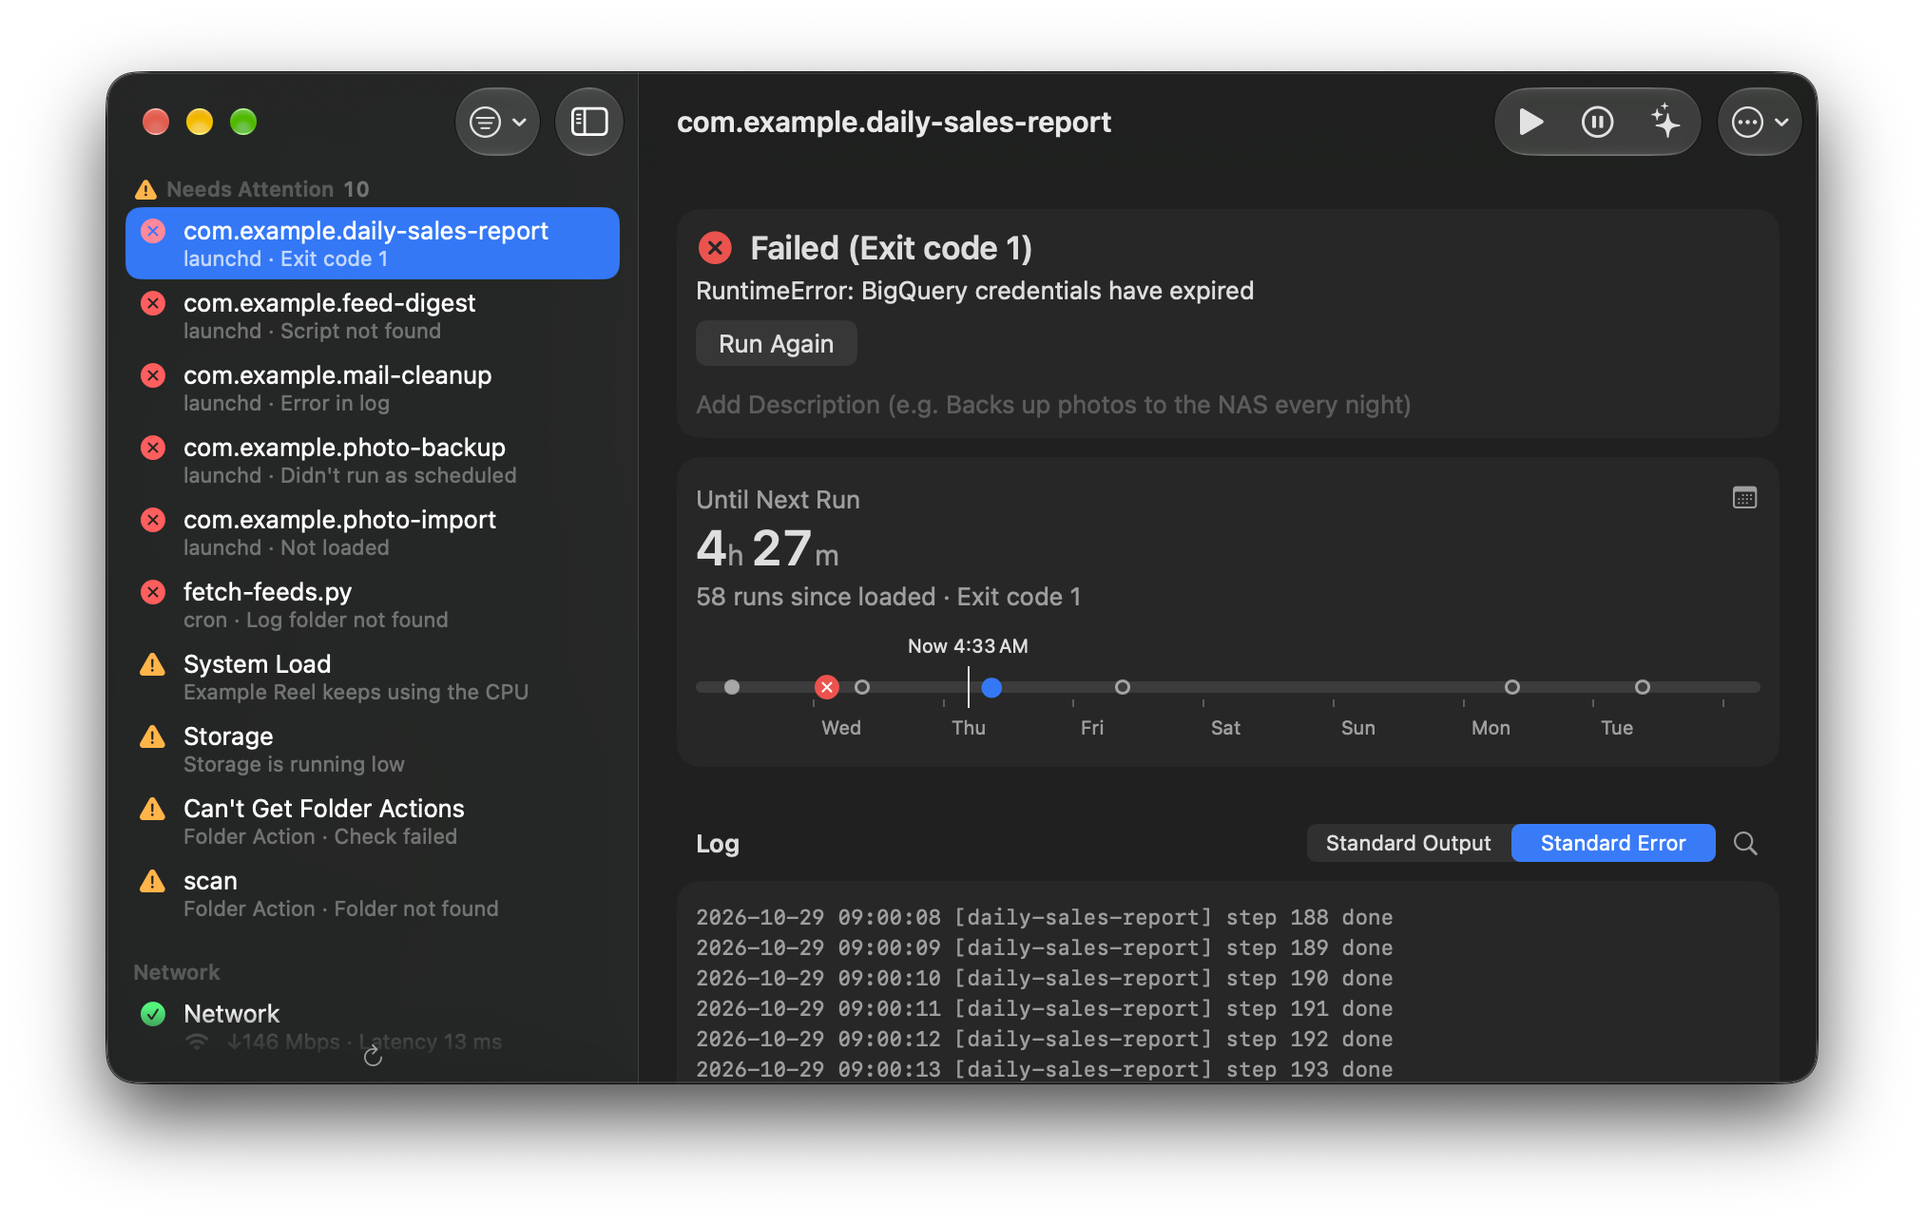
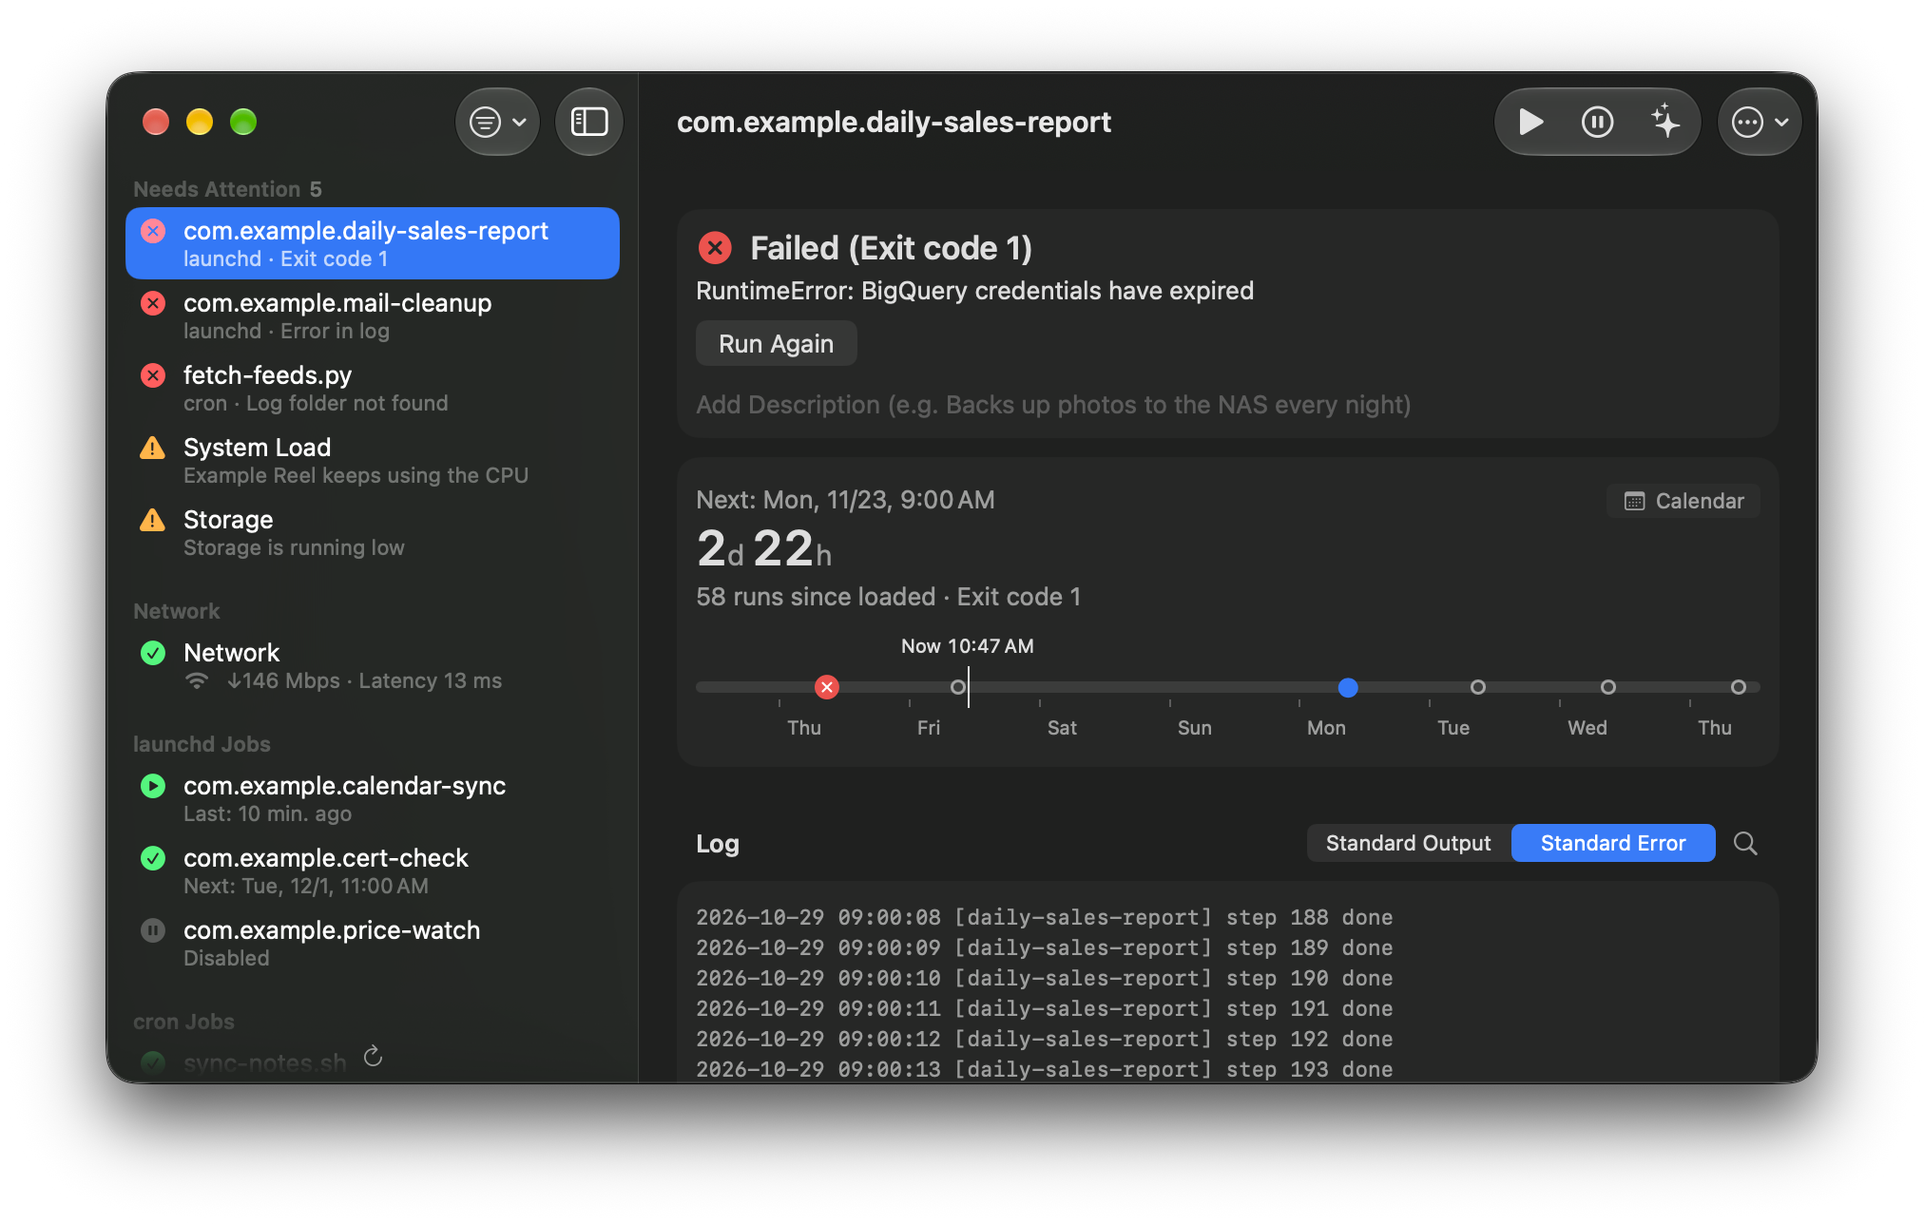
Label job triggers, show the next run time, and open schedule editing from the toolbar and menu bar

diff --git a/Breaker/Features/Dashboard/Views/ItemDetailView+LaunchdActivity.swift b/Breaker/Features/Dashboard/Views/ItemDetailView+LaunchdActivity.swift
@@ -2,10 +2,10 @@ import SwiftUI
 
 extension ItemDetailView {
     /**
-     launchd ジョブの動きを図で見せる。主役は次回までの残り時間の大きな数字1つで、実行回数と前回の終了はその下の小さな1行にまとめる
-     （失敗の見出しより目立たせないため。利用者の判断）。その下のタイムラインに、予定・前回・走らなかった予定・今を並べる。
+     launchd ジョブの動きを図で見せる。主役は次回までの残り時間の大きな数字1つで、見出しを次回の日時にする（残りから日時を暗算させず、行も増やさない。利用者の判断）。
+     実行回数と前回の終了はさらに下の小さな1行にまとめる（失敗の見出しより目立たせないため。利用者の判断）。その下のタイムラインに、予定・前回・走らなかった予定・今を並べる。
      タイムラインに印で出した前回・次回は、概要の文から外す（`MonitoredItem.headerRunSummary(now:)`）。
-     右上にジョブの種類（時刻指定・間隔・常駐など）を記号だけで添える（比較した中から利用者が選んだ、いちばん静かな見せ方）
+     右上にジョブの種類（時刻指定・間隔・常駐など）を記号と名前のタグで添える（`TriggerTags`）
      */
     struct LaunchdActivitySection: View {
         let job: MonitoredItem.LaunchdJob
@@ -21,12 +21,13 @@ extension ItemDetailView {
                     // 残り時間と「今」の位置が古びないよう、分が変わるたびに描き直す
                     TimelineView(.everyMinute) { context in
                         VStack(alignment: .leading, spacing: Spacing.standard) {
-                            HStack(alignment: .top, spacing: Spacing.standard) {
+                            // 種類のタグの文字を、左の見出し（次回の日時）と同じ行に揃える
+                            HStack(alignment: .firstTextBaseline, spacing: Spacing.standard) {
                                 VStack(alignment: .leading, spacing: Spacing.hairline) {
                                     // 予定のあるジョブは次回までの残り、動き続けている常駐ジョブは起動からの稼働時間を主役にする
                                     let figure = RunTimeline.nextRun(of: job, status: status, now: context.date).map { nextRun in
                                         DurationFigure(
-                                            title: String(localized: "Until Next Run", comment: "Title of the countdown to the next run of a launchd job in the detail"),
+                                            title: MonitoredItem.nextRunText(nextRun, now: context.date),
                                             from: context.date,
                                             to: nextRun
                                         )
@@ -50,7 +51,7 @@ extension ItemDetailView {
                                 }
                                 .frame(maxWidth: .infinity, alignment: .leading)
 
-                                TriggerSymbols(triggers: job.schedule.triggers)
+                                TriggerTags(triggers: job.schedule.triggers)
                             }
 
                             if let timeline = RunTimeline(job: job, status: status, now: context.date) {
@@ -64,7 +65,7 @@ extension ItemDetailView {
         }
 
         /**
-         `58 回実行（読み込み後） · 終了コード 1`。終了コードは失敗したときだけ添える。0 は概要の「正常」と線の ✓ が言うので繰り返さない（利用者の判断）。
+         `58回実行（読み込み後） · 終了コード 1`。終了コードは失敗したときだけ添える。0 は概要の「正常」と線の ✓ が言うので繰り返さない（利用者の判断）。
          まだ一度も終了していなければ終了の部分を出さない
          */
         nonisolated static func serviceSummary(of service: LaunchdServiceInfo, locale: Locale = .current) -> String {
@@ -101,20 +102,32 @@ extension ItemDetailView {
         }
     }
 
-    /// ジョブの種類の記号。色は付けず形だけで見分け、名前はポインタを載せたときと読み上げで伝える
-    struct TriggerSymbols: View {
+    /**
+     ジョブの種類のタグ。記号だけでは何を指すか分かりにくかったので名前を並べる（利用者の判断）。
+     色は付けない。状態の色（緑・橙・赤）と取り違えないようにする
+     */
+    struct TriggerTags: View {
         let triggers: [Schedule.Trigger]
 
         var body: some View {
-            HStack(spacing: Spacing.tight) {
+            HStack(spacing: Spacing.micro) {
                 ForEach(triggers, id: \.self) { trigger in
-                    Image(systemName: trigger.systemImage)
-                        .help(trigger.title)
-                        .accessibilityLabel(trigger.title)
+                    HStack(spacing: Spacing.micro) {
+                        // 記号の名前（calendar など）まで読み上げられないよう、読み上げは名前だけにする
+                        Image(systemName: trigger.systemImage)
+                            .accessibilityHidden(true)
+
+                        Text(trigger.title)
+                    }
+                    .padding(.horizontal, Spacing.tight)
+                    .padding(.vertical, Spacing.hairline)
+                    // 地は面の色（fill）にする。文字の階層の色（.quaternary）を面に使わない（HIG の Color）
+                    .background(.fill.quaternary, in: .rect(cornerRadius: Layout.triggerTagCornerRadius))
                 }
             }
-            .font(.Body.regular)
+            .font(.Base.regular)
             .foregroundStyle(.secondary)
+            .fixedSize()
             .accessibilityElement(children: .combine)
         }
     }

diff --git a/Breaker/Features/Dashboard/Views/ItemDetailView+Toolbar.swift b/Breaker/Features/Dashboard/Views/ItemDetailView+Toolbar.swift
@@ -2,7 +2,8 @@ import SwiftUI
 
 extension ItemDetailView {
     /**
-     よく使う状態を変える操作はアイコンのボタンで並べ、それ以外（読み込み直すとファイルを開く操作）は1つのメニューにまとめる。
+     よく使う状態を変える操作はアイコンのボタンで並べ、それ以外（読み込み直す・スケジュールの編集・ファイルを開く操作）は1つのメニューにまとめる。
+     メニューの並びはサイドバーの右クリックメニューと同じにする。
      ボタンの組は状態で変えず、できないものは無効にする。ツールバーのボタンは文字を出さないので、何をするかはツールチップで伝える
      */
     struct Toolbar: ToolbarContent {
@@ -10,6 +11,8 @@ extension ItemDetailView {
         let controls: [ItemAction]
         let promptAction: ItemAction?
         let secondaryControls: [ItemAction]
+        /// スケジュールの行の「編集…」と同じ操作。行まで降りなくても開けるようにする
+        let edits: [ItemAction]
         let files: [ItemAction]
         /// ネットワーク項目のときだけ。計測は `ItemActionPerformer` ではなくスケジューラが受け持つので、操作の組とは別に渡す
         let measure: MeasureButton.Model?
@@ -42,15 +45,16 @@ extension ItemDetailView {
                         .id(itemID)
                 }
 
-                if !secondaryControls.isEmpty || !files.isEmpty {
+                let menuGroups = [secondaryControls, edits, files].filter { !$0.isEmpty }
+                if !menuGroups.isEmpty {
                     Menu("More", systemImage: "ellipsis.circle") {
-                        ItemActionMenuItems(actions: secondaryControls, perform: perform)
+                        ForEach(menuGroups, id: \.self) { actions in
+                            if actions != menuGroups.first {
+                                Divider()
+                            }
 
-                        if !secondaryControls.isEmpty && !files.isEmpty {
-                            Divider()
+                            ItemActionMenuItems(actions: actions, perform: perform)
                         }
-
-                        ItemActionMenuItems(actions: files, perform: perform)
                     }
                     .help("More")
                     .disabled(isLocked)

diff --git a/Breaker/Models/ItemAction.swift b/Breaker/Models/ItemAction.swift
@@ -50,6 +50,11 @@ struct ItemAction: Identifiable, Hashable, Sendable {
     static var unavailablePromptAction: ItemAction {
         ItemAction(title: copyPromptTitle, systemImage: copyPromptSystemImage, operation: .unavailable, isEnabled: false)
     }
+
+    /// スケジュールを書き換えられない項目（launchd ジョブ以外・`/Library` のジョブ）を選んでいるときにメニューバーの「項目」で無効で見せる。`MonitoredItem.editActions` に名前と絵を合わせる
+    static var unavailableEditAction: ItemAction {
+        ItemAction(title: editScheduleTitle, systemImage: editScheduleSystemImage, operation: .unavailable, isEnabled: false)
+    }
 }
 
 extension ItemAction {
@@ -64,6 +69,14 @@ extension ItemAction {
 
     static var reloadTitle: String {
         String(localized: "Reload", comment: "Action that loads an unloaded launchd job back into launchd")
+    }
+
+    static var editScheduleTitle: String {
+        String(localized: "Edit Schedule…")
+    }
+
+    static var editScheduleSystemImage: String {
+        "calendar.badge.clock"
     }
 
     static var showInFinderTitle: String {
@@ -226,7 +239,7 @@ extension MonitoredItem {
             case .launchdJob(let job) = detail,
             job.origin.isManageable
         {
-            [ItemAction(title: String(localized: "Edit Schedule…"), systemImage: "calendar.badge.clock", operation: .editSchedule(job))]
+            [ItemAction(title: ItemAction.editScheduleTitle, systemImage: ItemAction.editScheduleSystemImage, operation: .editSchedule(job))]
         } else {
             []
         }

diff --git a/Breaker/Preview Content/PreviewSupport.swift b/Breaker/Preview Content/PreviewSupport.swift
@@ -348,14 +348,18 @@ extension AppModel {
 
     /**
      `-BreakerSampleData YES` で起動したときの一覧（`AppEnvironment.usesSampleData`）。スクリーンショットで詳細のログの欄も埋まるよう、
-     ログ付きの見本を同じ ID の項目と差し替え、代表的な失敗（#Preview "launchd (Failed with Logs)" と同じもの）を選んでおく
+     ログ付きの見本を同じ ID の項目と差し替え、代表的な失敗（#Preview "launchd (Failed with Logs)" と同じもの）を選んでおく。
+     要確認の節が長いとネットワークなど下の節がウインドウに収まらないので、異常は種類ごとに代表だけを残す
      */
     static func sampleData() -> AppModel {
         let failure = MonitoredItem.sampleFailureWithLogs
         let withLogs = [failure, MonitoredItem.sampleLogErrorWithLogs]
-        let items = MonitoredItem.samples.map { item in
-            withLogs.first { $0.id == item.id } ?? item
-        }
+        let shownIssues: Set = [failure.name, MonitoredItem.sampleLogError.name, "fetch-feeds.py", MonitoredItem.sampleSystemLoad.name, MonitoredItem.sampleStorage.name]
+        let items = MonitoredItem.samples
+            .filter { !$0.status.isAbnormal || shownIssues.contains($0.name) }
+            .map { item in
+                withLogs.first { $0.id == item.id } ?? item
+            }
         return preview(selectedID: failure.id, items: items)
     }
 }

diff --git a/BreakerTests/AppModelTests.swift b/BreakerTests/AppModelTests.swift
@@ -414,7 +414,10 @@ struct AppModelTests {
         #expect(reloaded.itemNotes == [item.id: "メモ"])
     }
 
-    /// スクリーンショット用の見本。見本の項目がすべて並び、ログの書かれた失敗の項目を選んだ状態で始まる
+    /**
+     スクリーンショット用の見本。正常な項目はすべて並び、異常は種類ごとの代表だけに絞って下のネットワークの節までウインドウに収める。
+     ログの書かれた失敗の項目を選んだ状態で始まる
+     */
     @Test func sampleDataSelectsFailureWithLogs() throws {
         let appModel = AppModel.sampleData()
         let selected = try #require(appModel.selectedItem)
@@ -423,7 +426,10 @@ struct AppModelTests {
             return
         }
 
-        #expect(Set(appModel.items.map(\.id)) == Set(MonitoredItem.samples.map(\.id)))
+        let ids = Set(appModel.items.map(\.id))
+        #expect(MonitoredItem.samples.filter { !$0.status.isAbnormal }.allSatisfy { ids.contains($0.id) })
+        #expect(appModel.items.count { $0.status.isAbnormal } == 5)
+        #expect(ids.isSuperset(of: [MonitoredItem.sampleSystemLoad.id, MonitoredItem.sampleStorage.id, MonitoredItem.sampleNetwork.id]))
         #expect(selected.id == MonitoredItem.sampleFailureWithLogs.id)
         #expect(selected.status.isFailed)
         #expect(FileManager.default.fileExists(atPath: try #require(job.standardErrorPath)))

diff --git a/BreakerTests/ItemActionTests.swift b/BreakerTests/ItemActionTests.swift
@@ -211,6 +211,18 @@ struct ItemActionTests {
         #expect(MonitoredItem.samples.filter { $0.kind != .launchdJob }.allSatisfy { $0.editActions.isEmpty })
     }
 
+    /// メニューバーの「項目」では書き換えられない項目でも同じ名前と絵で無効で見せるので、詳細の「編集…」と同じ操作とずれないこと
+    @Test func unavailableEditActionMatchesEditAction() throws {
+        let job = MonitoredItem.LaunchdJob.stub()
+        let item = MonitoredItem(key: job.label, name: job.label, status: .ok, detail: .launchdJob(job))
+        let action = try #require(item.editActions.first)
+        let unavailable = ItemAction.unavailableEditAction
+        #expect(unavailable.title == action.title)
+        #expect(unavailable.systemImage == action.systemImage)
+        #expect(!unavailable.isEnabled)
+        #expect(unavailable.operation == .unavailable)
+    }
+
     /// launchd と cron では常に出し、調べることのある異常時だけ押せる。状態を変えないので一覧は取り直さない
     @Test(arguments: [
         (ItemStatus.failed(reason: "Exit code 1"), true),

diff --git a/BreakerTests/LaunchdActivityTests.swift b/BreakerTests/LaunchdActivityTests.swift
@@ -170,7 +170,7 @@ struct LaunchdActivityTests {
         let english = Locale(identifier: "en_US")
         let japanese = Locale(identifier: "ja_JP")
         #expect(Section.serviceSummary(of: .init(state: "not running", pid: nil, runs: 58, lastExit: .code(1)), locale: english) == "58 runs since loaded · Exit code 1")
-        #expect(Section.serviceSummary(of: .init(state: "not running", pid: nil, runs: 58, lastExit: .code(1)), locale: japanese) == "58 回実行（読み込み後） · 終了コード 1")
+        #expect(Section.serviceSummary(of: .init(state: "not running", pid: nil, runs: 58, lastExit: .code(1)), locale: japanese) == "58回実行（読み込み後） · 終了コード 1")
         #expect(Section.serviceSummary(of: .init(state: "running", pid: 812, runs: 1, lastExit: .never), locale: english) == "1 run since loaded")
         // 0 は概要の「正常」と線の ✓ が言うので添えない
         #expect(Section.serviceSummary(of: .init(state: "not running", pid: nil, runs: 4, lastExit: .code(0)), locale: english) == "4 runs since loaded")

diff --git a/Breaker/DesignSystem/Layout.swift b/Breaker/DesignSystem/Layout.swift
@@ -30,6 +30,8 @@ enum Layout {
     static let chartLineDash: [CGFloat] = [3, 3]
     /// グラフをホバーしたときの値の札の角丸。macOS のツールチップやポップオーバーと同じくらいの丸み
     static let chartTooltipCornerRadius: CGFloat = 6
+    /// launchd の詳細の種類のタグの角丸。ピルにせず、小さな札と読める丸み
+    static let triggerTagCornerRadius: CGFloat = 4
     /// ストレージの内訳のバーの高さ。細い場所の色も見分けられる太さ
     static let storageBarHeight: CGFloat = 12
     /// ストレージの一覧の行の頭の点と、バーの説明の点。小さくても色が読み取れる大きさ

diff --git a/Breaker/Features/Dashboard/Views/SidebarView.swift b/Breaker/Features/Dashboard/Views/SidebarView.swift
@@ -89,13 +89,6 @@ extension SidebarView {
 
         var body: some View {
             HStack(spacing: Spacing.micro) {
-                // 異常を集めた節だと見出しだけで分かるよう、要確認の記号を添える。読み上げは見出しの文字で足りる
-                if group == .attention {
-                    Image(systemName: ItemStatus.warningSystemImage)
-                        .foregroundStyle(Color.Status.warning)
-                        .accessibilityHidden(true)
-                }
-
                 Text(group.title)
 
                 if group == .attention {

diff --git a/Breaker/Common/Views/ItemStatus+Display.swift b/Breaker/Common/Views/ItemStatus+Display.swift
@@ -67,8 +67,7 @@ extension ItemStatus {
         }
     }
 
-    /// 要確認の記号。サイドバーの要確認の節の見出しにも使う
-    static let warningSystemImage = "exclamationmark.triangle.fill"
+    private static let warningSystemImage = "exclamationmark.triangle.fill"
 
     /// 状態の記号のうち、いちばん幅の広いもの（三角）。サイドバーの行で記号の枠の幅をそろえるのに使う
     static let widestSystemImage = warningSystemImage

diff --git a/Breaker/Features/Dashboard/Views/ItemDetailView.swift b/Breaker/Features/Dashboard/Views/ItemDetailView.swift
@@ -81,6 +81,7 @@ struct ItemDetailView: View {
                 controls: item.controlActions,
                 promptAction: item.promptAction,
                 secondaryControls: item.secondaryControlActions,
+                edits: item.editActions,
                 files: item.fileActions(),
                 measure: item.networkHealth.map { .init(scheduler: speedTestScheduler, isOnline: $0.isOnline) },
                 scan: item.storageUsage.map { _ in storageScanScheduler },

diff --git a/Breaker/BreakerApp+MenuCommands.swift b/Breaker/BreakerApp+MenuCommands.swift
@@ -53,6 +53,12 @@ extension BreakerApp {
 
                 Divider()
 
+                ItemActionMenuItems(actions: [item?.editActions.first ?? ItemAction.unavailableEditAction]) { action in
+                    request(action, on: item)
+                }
+
+                Divider()
+
                 ItemActionMenuItems(actions: [item?.promptAction ?? ItemAction.unavailablePromptAction]) { action in
                     request(action, on: item)
                 }
